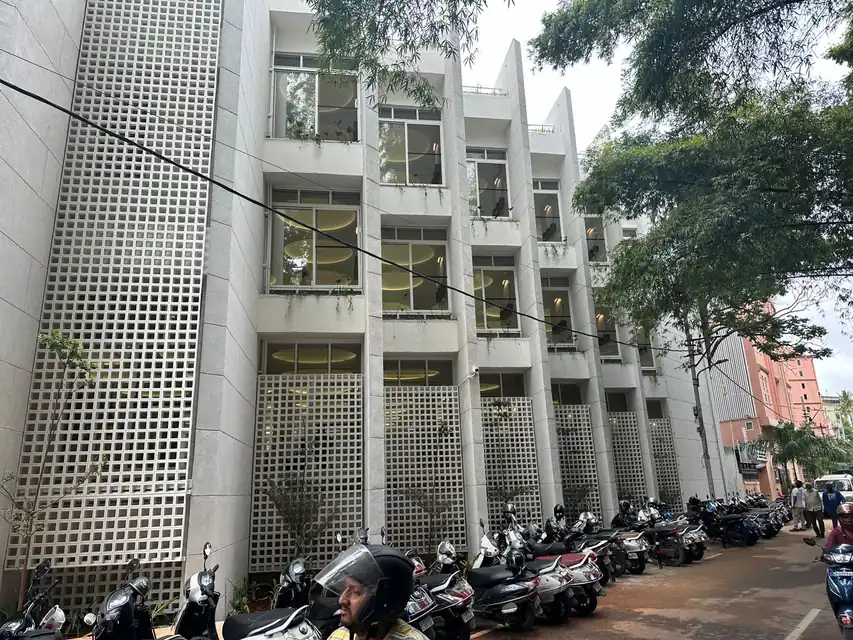
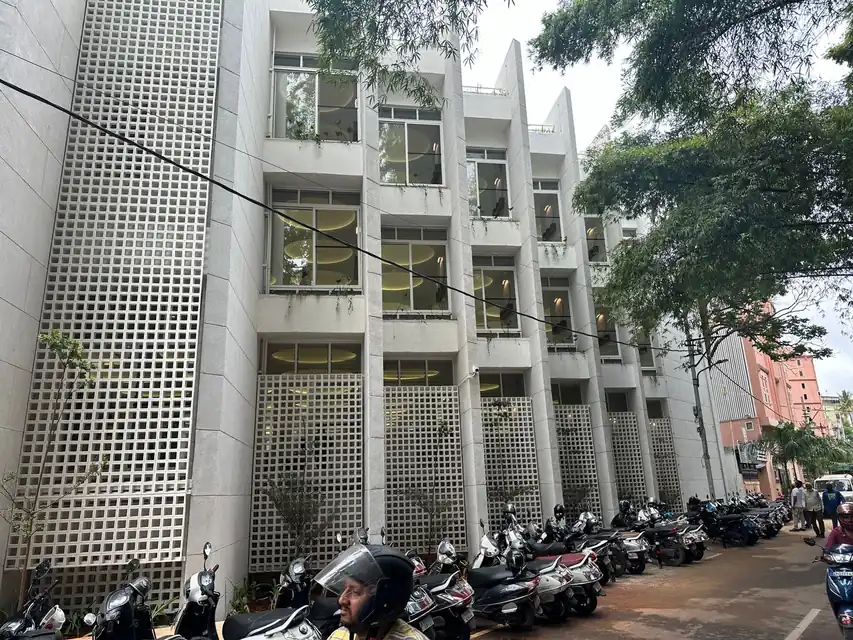
Images: bring the 5 heavy thumbnails under 100 KB

diff --git a/tools/project-images.py b/tools/project-images.py
@@ -2,6 +2,7 @@
 """Make the web images for the Projects pages from the original photos.
 
     python tools/project-images.py
+    python tools/project-images.py --thumbs-over-budget   remake only the thumbnails over 100 KB
 
 Reads src/data/projects.json. Each photo's "source" is a path inside "Rj projects/".
 An optional "crop" keeps part of the photo, as fractions of the original:
@@ -11,7 +12,8 @@ Use it to remove camera stamps such as "Shot with my Galaxy A71".
 Writes, for photo number n of each project:
     src/assets/img/projects/<id>/<n>.webp        long edge up to 1600px, for the gallery and viewer
     src/assets/img/projects/<id>/<n>-thumb.webp  short edge up to 640px, for cards
-The folder is rebuilt from scratch each run. Needs Pillow (pip install pillow).
+The folder is rebuilt from scratch each run, except with --thumbs-over-budget, which leaves every other
+file as it is. Needs Pillow (pip install pillow).
 """
 import json
 import shutil
@@ -50,8 +52,51 @@ def save_webp(im, path, quality, budget_kb, floor):
         quality -= 4
 
 
+def save_thumb(im, path):
+    """Save a card thumbnail within budget. Very busy photos (leaves, fine screens) don't fit even at the
+    lowest quality, so they are made a little smaller instead: cards show thumbnails at most about 460px
+    wide, and larger screens get the full photo from the srcset."""
+    short = THUMB_SHORT_EDGE
+    while True:
+        save_webp(fit_short(im, short, THUMB_LONG_EDGE_MAX), path, 74, THUMB_BUDGET_KB, 46)
+        if path.stat().st_size <= THUMB_BUDGET_KB * 1024 or short <= 480:
+            return
+        short -= 40
+
+
+def load_photo(project, photo):
+    path = SOURCE / photo['source']
+    if not path.exists():
+        sys.exit(f'Missing photo for {project["id"]}: {path}')
+    im = ImageOps.exif_transpose(Image.open(path)).convert('RGB')
+    crop = photo.get('crop')
+    if crop:
+        w, h = im.size
+        box = (round(w * crop.get('left', 0)), round(h * crop.get('top', 0)),
+               round(w * crop.get('right', 1)), round(h * crop.get('bottom', 1)))
+        im = im.crop(box)
+    return im
+
+
+def remake_heavy_thumbs(projects):
+    """Remake only the thumbnails over budget, leaving every other file as it is."""
+    for project in projects:
+        for n, photo in enumerate(project.get('photos', []), start=1):
+            thumb = OUT / project['id'] / f'{n}-thumb.webp'
+            before = thumb.stat().st_size
+            if before <= THUMB_BUDGET_KB * 1024:
+                continue
+            save_thumb(load_photo(project, photo), thumb)
+            with Image.open(thumb) as im:
+                size = im.size
+            print(f'{project["id"]}/{n}-thumb.webp: {before // 1024} KB -> {thumb.stat().st_size // 1024} KB, {size[0]}x{size[1]}')
+
+
 def main():
     projects = json.loads((ROOT / 'src' / 'data' / 'projects.json').read_text(encoding='utf8'))
+    if '--thumbs-over-budget' in sys.argv:
+        remake_heavy_thumbs(projects)
+        return
     if OUT.exists():
         shutil.rmtree(OUT)
     total = 0
@@ -62,18 +107,9 @@ def main():
         folder = OUT / project['id']
         folder.mkdir(parents=True)
         for n, photo in enumerate(photos, start=1):
-            path = SOURCE / photo['source']
-            if not path.exists():
-                sys.exit(f'Missing photo for {project["id"]}: {path}')
-            im = ImageOps.exif_transpose(Image.open(path)).convert('RGB')
-            crop = photo.get('crop')
-            if crop:
-                w, h = im.size
-                box = (round(w * crop.get('left', 0)), round(h * crop.get('top', 0)),
-                       round(w * crop.get('right', 1)), round(h * crop.get('bottom', 1)))
-                im = im.crop(box)
+            im = load_photo(project, photo)
             save_webp(fit_long(im, FULL_LONG_EDGE), folder / f'{n}.webp', 80, FULL_BUDGET_KB, 56)
-            save_webp(fit_short(im, THUMB_SHORT_EDGE, THUMB_LONG_EDGE_MAX), folder / f'{n}-thumb.webp', 74, THUMB_BUDGET_KB, 50)
+            save_thumb(im, folder / f'{n}-thumb.webp')
             total += 1
         print(f'{project["id"]}: {len(photos)} photos')
     print(f'Done: {total} photos')

diff --git a/PROGRESS.md b/PROGRESS.md
@@ -27,7 +27,11 @@ There is one commit per step. To resume, start at the first unticked step.
   - **Validation:** every page was checked against the schema.org vocabulary (types exist, every property allowed on its type): 0 errors, both with and without the profile link.
   - **Still to do when the link arrives:** the map embed and "Get directions" still search the address; switching them needs the profile's Place ID.
 - [x] 8. Sitemap lastmod: every URL now has one. It is the last commit date of the page's source files (the page, plus faq.json for /faq/, and projects.json and the project template for project pages). Where git can't give a reliable date, the build date is used instead: no git at all, or a shallow clone where the file's last commit is the clone's cut-off commit, as on Vercel. Tested in a --depth 2 clone.
-- [ ] 9. Images: the 5 thumbnails over 100 KB
+- [x] 9. Images: the 5 thumbnails over 100 KB are now 96-99 KB, and no thumbnail is over budget.
+  - **Tool change:** tools/project-images.py lowers the quality to 46 first (it was 50), then shrinks the short edge in 40px steps (to 480 at least) until the file fits.
+  - **Results:** bismilla 2 (quality only), indian-tiffin-club 1 (quality only) and 2 (600px), commercial-complex-malleswaram 1 and 2 (520px).
+  - **Display:** cards show thumbnails at most about 460px wide. Above 520px, srcset switches to the full photo.
+  - **Checking:** compared side by side at card size, with no visible difference. `--thumbs-over-budget` remakes only the heavy thumbnails and leaves every other file alone.
 - [ ] 10. GA4 check
 - [ ] 11. Remaining SEO-AUDIT.md items
 - [ ] 12. Finish: build, grep, before/after table, client message
